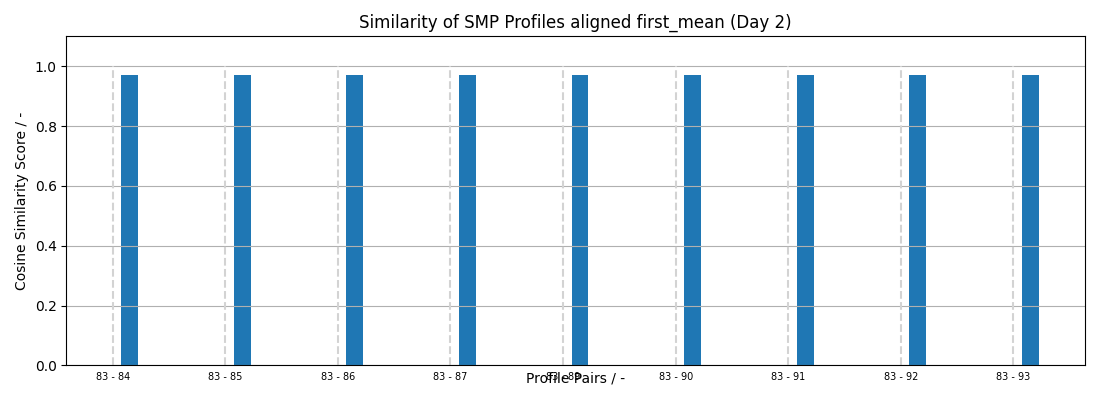
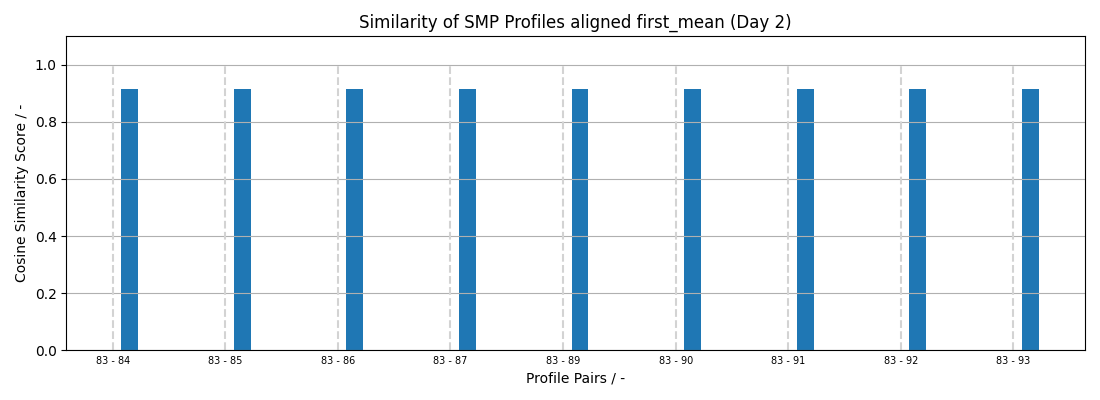
working on means but way it is right now does not work!

diff --git a/code_SMP/similarity.py b/code_SMP/similarity.py
@@ -42,7 +42,7 @@ def plot_similarity_scores(data, day, alignment):
     fig, ax = plt.subplots(figsize=(11, 4))
     ax.set_title(f"Similarity of SMP Profiles aligned {alignment} (Day {day})")
     ax.set_ylabel("Cosine Similarity Score / -")
-    ax.set_xlabel("Profile Pairs / -")
+    ax.set_xlabel("Profile Pairs / -", labelpad=15)
     ax.set_ylim(0, 1.1)
     ax.set_xticks([])
 
@@ -128,7 +128,7 @@ if __name__ == "__main__":
     smp_profiles = load_all_smp_profiles()
 
     # pairs of profiles saved as lists in code_SMP/pairs.py
-    for type in ["double"]: #["pairs", "first", "first_mean", "single", "double", "increasing", "decreasing"]:
+    for type in ["first_mean"]: #["pairs", "first", "first_mean", "single", "double", "increasing", "decreasing"]:
 
         # build pairs for crosscorrelation 
         if type == "pairs":
@@ -168,20 +168,21 @@ if __name__ == "__main__":
             df1, df2 = align_profiles(df1, df2, name1, name2, lag, plot=True)
             # Addition: for first profiles correlate also mean 
             if type == "first_mean":
-                # group profiles by velocity (right now only day 1)
-                profiles_day1_v8 = [df for name, df in smp_profiles.items() 
-                                    if df.attrs["date"] == 1 and df.attrs["velocity"] == 8]
-                profiles_day1_v20 = [df for name, df in smp_profiles.items()
-                                    if df.attrs["date"] == 1 and df.attrs["velocity"] == 20]
-                # make sure length is the same
-                min_len = min(min(len(df) for df in profiles_day1_v8), min(len(df) for df in profiles_day1_v20))
-                # calc means 
-                forces_v8 = np.stack([df["force"].values[:min_len]  for df in profiles_day1_v8])
-                mean_v8 = np.mean(forces_v8, axis=0)
-                forces_v20 = np.stack([df["force"].values[:min_len]  for df in profiles_day1_v20])
-                mean_v20 = np.mean(forces_v20, axis=0)
-                # calc similarity scores for means 
-                cosine = similarity(mean_v8, mean_v20)
+                for day in [1, 2]:
+                    # group profiles by velocity (right now only day 1)
+                    profiles_v8 = [df for name, df in smp_profiles.items() 
+                                        if df.attrs["date"] == day and df.attrs["velocity"] == 8]
+                    profiles_v20 = [df for name, df in smp_profiles.items()
+                                        if df.attrs["date"] == day and df.attrs["velocity"] == 20]
+                    # make sure length is the same
+                    min_len = min(min(len(df) for df in profiles_v8), min(len(df) for df in profiles_v20))
+                    # calc means 
+                    forces_v8 = np.stack([df["force"].values[:min_len]  for df in profiles_v8])
+                    mean_v8 = np.mean(forces_v8, axis=0)
+                    forces_v20 = np.stack([df["force"].values[:min_len]  for df in profiles_v20])
+                    mean_v20 = np.mean(forces_v20, axis=0)
+                    # calc similarity scores for means 
+                    cosine = similarity(mean_v8, mean_v20)
             # Step 3: calculate similarity scores
             else:
                 cosine = similarity(df1["force"].values, df2["force"].values)
